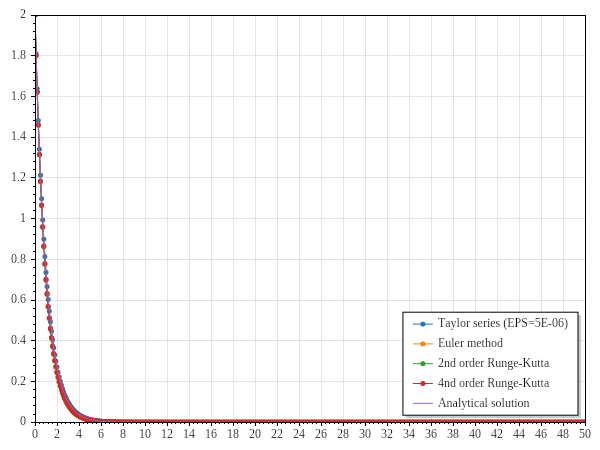
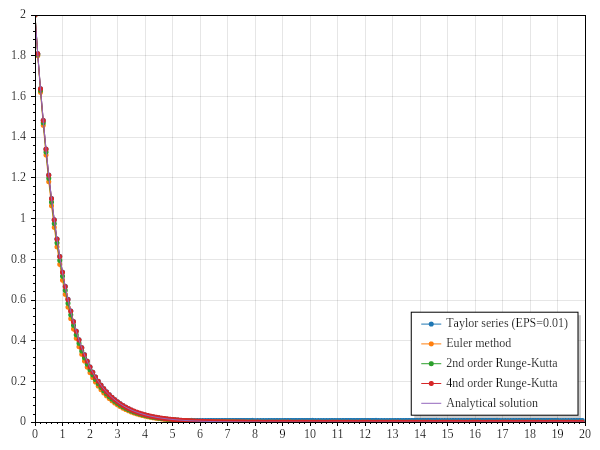
fixed RK calculations

Changed region(s): [[0.06, 0.0622, 0.96, 0.9956], [0.81, 0.0622, 0.84, 0.6844], [0.69, 0.0622, 0.72, 0.6844]]

diff --git a/Main.cs b/Main.cs
@@ -11,7 +11,7 @@ class Solver{
 
 		TaylorSeries.Taylor(Functs.X_prime, Consts.InitialConditions.X, result, out exec_time);
 
-		Console.WriteLine($"Taylor method execution time: {exec_time.TotalMilliseconds} ms");
+		Console.WriteLine($"Taylor method execution time: {exec_time.TotalMilliseconds} s");
 
 		plot.Add.Scatter(Enumerable.Range(0,result.Count+1).Select(i => i*Consts.IntegrationSteps.Taylor).ToArray(), result.ToArray()).LegendText = $"Taylor series (EPS={Consts.TaylorSeries.EPS})";
 
@@ -19,7 +19,7 @@ class Solver{
 
 		EulerMethod.Euler(Functs.X_prime, Consts.InitialConditions.X, result, out exec_time);
 
-		Console.WriteLine($"Euler method execution time: {exec_time.TotalMilliseconds} ms");
+		Console.WriteLine($"Euler method execution time: {exec_time.TotalMilliseconds} s");
 
 		plot.Add.Scatter(Enumerable.Range(0,result.Count+1).Select(i => i*Consts.IntegrationSteps.Euler).ToArray(), result.ToArray()).LegendText = "Euler method";
 		
@@ -27,7 +27,7 @@ class Solver{
 
 		RK.SecondOrd(Functs.X_prime, Consts.InitialConditions.X, result, out exec_time);
 		
-		Console.WriteLine($"2nd order Runge-Kutta method execution time: {exec_time.TotalMilliseconds} ms");
+		Console.WriteLine($"2nd order Runge-Kutta method execution time: {exec_time.TotalMilliseconds} s");
 
 		plot.Add.Scatter(Enumerable.Range(0, result.Count+1).Select(i => i*Consts.IntegrationSteps.RK).ToArray(), result.ToArray()).LegendText = "2nd order Runge-Kutta";
 
@@ -35,7 +35,7 @@ class Solver{
 
 		RK.FourthOrd(Functs.X_prime, Consts.InitialConditions.X, result, out exec_time);
 
-		Console.WriteLine($"4th order Runge-Kutta method execution time: {exec_time.TotalMilliseconds} ms");
+		Console.WriteLine($"4th order Runge-Kutta method execution time: {exec_time.TotalMilliseconds} s");
 	
 		plot.Add.Scatter(Enumerable.Range(0, result.Count+1).Select(i => i*Consts.IntegrationSteps.RK).ToArray(), result.ToArray()).LegendText = "4nd order Runge-Kutta";
 
@@ -59,7 +59,7 @@ class Solver{
 
 		EulerMethod.Euler(Functs.Y_prime, Functs.Z_prime, Consts.InitialConditions.Y, Consts.InitialConditions.Z, result, out exec_time);
 
-		Console.WriteLine($"Euler method execution time: {exec_time.TotalMilliseconds} ms");
+		Console.WriteLine($"Euler method execution time: {exec_time.TotalMilliseconds} s");
 
 		plot.Add.Scatter(Enumerable.Range(0, result.Count+1).Select(i => i*Consts.IntegrationSteps.Euler).ToArray(), result.Select(i => i.y).ToArray()).LegendText = "Euler method (y')";
 		plot.Add.Scatter(Enumerable.Range(0, result.Count+1).Select(i => i*Consts.IntegrationSteps.Euler).ToArray(), result.Select(i => i.z).ToArray()).LegendText = "Euler method (z')";
@@ -68,7 +68,7 @@ class Solver{
 
 		RK.SecondOrd(Functs.Y_prime, Functs.Z_prime, Consts.InitialConditions.Y, Consts.InitialConditions.Z, result, out exec_time);
 
-		Console.WriteLine($"2nd order Runge-Kutta method execution time: {exec_time.TotalMilliseconds} ms");
+		Console.WriteLine($"2nd order Runge-Kutta method execution time: {exec_time.TotalMilliseconds} s");
 
 		plot.Add.Scatter(Enumerable.Range(0, result.Count+1).Select(i => i*Consts.IntegrationSteps.RK).ToArray(), result.Select(i => i.y).ToArray()).LegendText = "2nd order Runge-Kutta (y')";
 		plot.Add.Scatter(Enumerable.Range(0, result.Count+1).Select(i => i*Consts.IntegrationSteps.RK).ToArray(), result.Select(i => i.z).ToArray()).LegendText = "2nd order Runge-Kutta (z')";
@@ -77,7 +77,7 @@ class Solver{
 	
 		RK.FourthOrd(Functs.Y_prime, Functs.Z_prime, Consts.InitialConditions.Y, Consts.InitialConditions.Z, result, out exec_time);
 
-		Console.WriteLine($"2nd order Runge-Kutta method execution time: {exec_time.TotalMilliseconds} ms");
+		Console.WriteLine($"2nd order Runge-Kutta method execution time: {exec_time.TotalMilliseconds} s");
 
 		plot.Add.Scatter(Enumerable.Range(0, result.Count+1).Select(i => i*Consts.IntegrationSteps.RK).ToArray(), result.Select(i => i.y).ToArray()).LegendText = "4th order Runge-Kutta (y')";
 		plot.Add.Scatter(Enumerable.Range(0, result.Count+1).Select(i => i*Consts.IntegrationSteps.RK).ToArray(), result.Select(i => i.z).ToArray()).LegendText = "4th order Runge-Kutta (z')";
@@ -86,7 +86,7 @@ class Solver{
 
 		TaylorSeries.Taylor(Functs.Y_prime, Functs.Z_prime, Consts.InitialConditions.Y, Consts.InitialConditions.Z, result, out exec_time);
 
-		Console.WriteLine($"Taylor series execution time: {exec_time.TotalMilliseconds} ms");
+		Console.WriteLine($"Taylor series execution time: {exec_time.TotalMilliseconds} s");
 		
 		plot.Add.Scatter(Enumerable.Range(0, result.Count+1).Select(i => i*Consts.IntegrationSteps.Taylor).ToArray(), result.Select(i => i.y).ToArray()).LegendText = $"Taylor series (y') (EPS={Consts.TaylorSeries.EPS})";
 		plot.Add.Scatter(Enumerable.Range(0, result.Count+1).Select(i => i*Consts.IntegrationSteps.Taylor).ToArray(), result.Select(i => i.z).ToArray()).LegendText = $"Taylor series (z') (EPS={Consts.TaylorSeries.EPS})";
@@ -105,7 +105,7 @@ class Solver{
 		f.MaxX = Consts.T_max;
 		f.LegendText = "Analytical solution (z')";
 
-		plot.Axes.SetLimits(0, Consts.T_max, -2, 2);
+		plot.Axes.SetLimits(0, Consts.T_max, -5, 5);
 		plot.SavePng("output/TwoEquations.png", 600, 450);
 
 		Console.WriteLine("Output graph: output/TwoEquations.png\n");
@@ -121,7 +121,7 @@ class Solver{
 
 		EulerMethod.Euler(DenseMatrix.OfArray(m), DenseMatrix.OfArray(initial), result, out exec_time);
 
-		Console.WriteLine($"Euler method execution time: {exec_time.TotalMilliseconds} ms");
+		Console.WriteLine($"Euler method execution time: {exec_time.TotalMilliseconds} s");
 
 		plot.Add.Scatter(Enumerable.Range(0, result.Count+1).Select(i => i*Consts.IntegrationSteps.Euler).ToArray(), result.Select(i => i[0,0]).ToArray()).LegendText = "Euler method (y')";
 		plot.Add.Scatter(Enumerable.Range(0, result.Count+1).Select(i => i*Consts.IntegrationSteps.Euler).ToArray(), result.Select(i => i[1,0]).ToArray()).LegendText = "Euler method (z')";
@@ -130,7 +130,7 @@ class Solver{
 
 		RK.SecondOrd(DenseMatrix.OfArray(m), DenseMatrix.OfArray(initial), result, out exec_time);
 
-		Console.WriteLine($"2nd order Runge-Kutta execution time: {exec_time.TotalMilliseconds} ms");
+		Console.WriteLine($"2nd order Runge-Kutta execution time: {exec_time.TotalMilliseconds} s");
 
 		plot.Add.Scatter(Enumerable.Range(0, result.Count+1).Select(i => i*Consts.IntegrationSteps.RK).ToArray(), result.Select(i => i[0,0]).ToArray()).LegendText = "2nd order Runge-Kutta (y')";
 		plot.Add.Scatter(Enumerable.Range(0, result.Count+1).Select(i => i*Consts.IntegrationSteps.RK).ToArray(), result.Select(i => i[1,0]).ToArray()).LegendText = "2nd order Runge-Kutta (z')";
@@ -139,7 +139,7 @@ class Solver{
 
 		RK.FourthOrd(DenseMatrix.OfArray(m), DenseMatrix.OfArray(initial), result, out exec_time);
 
-		Console.WriteLine($"4th order Runge-Kutta execution time: {exec_time.TotalMilliseconds} ms");
+		Console.WriteLine($"4th order Runge-Kutta execution time: {exec_time.TotalMilliseconds} s");
 
 		plot.Add.Scatter(Enumerable.Range(0, result.Count+1).Select(i => i*Consts.IntegrationSteps.RK).ToArray(), result.Select(i => i[0,0]).ToArray()).LegendText = "4th order Runge-Kutta (y')";
 		plot.Add.Scatter(Enumerable.Range(0, result.Count+1).Select(i => i*Consts.IntegrationSteps.RK).ToArray(), result.Select(i => i[1,0]).ToArray()).LegendText = "4th order Runge-Kutta (z')";
@@ -148,7 +148,7 @@ class Solver{
 		
 		TaylorSeries.Taylor(DenseMatrix.OfArray(m), DenseMatrix.OfArray(initial), result, out exec_time);
 
-		Console.WriteLine($"Taylor series execution time: {exec_time.TotalMilliseconds} ms");
+		Console.WriteLine($"Taylor series execution time: {exec_time.TotalMilliseconds} s");
 
 		plot.Add.Scatter(Enumerable.Range(0, result.Count+1).Select(i => i*Consts.IntegrationSteps.Taylor).ToArray(), result.Select(i => i[0,0]).ToArray()).LegendText = $"Taylor series (y') (EPS={Consts.TaylorSeries.EPS})";
 		plot.Add.Scatter(Enumerable.Range(0, result.Count+1).Select(i => i*Consts.IntegrationSteps.Taylor).ToArray(), result.Select(i => i[1,0]).ToArray()).LegendText = $"Taylor series (z') (EPS={Consts.TaylorSeries.EPS})";
@@ -166,7 +166,7 @@ class Solver{
 		f.MaxX = Consts.T_max;
 		f.LegendText = "Analytical solution (z')";
 
-		plot.Axes.SetLimits(0, Consts.T_max, -2, 2);
+		plot.Axes.SetLimits(0, Consts.T_max, -5, 5);
 		plot.SavePng("output/Matrix.png", 600, 450);
 
 		Console.WriteLine("Output graph: output/Matrix.png\n");

diff --git a/src/RK.cs b/src/RK.cs
@@ -3,51 +3,51 @@ namespace ODESolver;
 static class RK{
 	private static Stopwatch stopwatch = new();
 
-	private static (double, double) CalculateK2(Func<double,double> f, double y){
-		double k_1 = Consts.IntegrationSteps.RK*f(y);
-		double k_2 = Consts.IntegrationSteps.RK*f(y + Consts.IntegrationSteps.RK/2 * k_1);
+	private static (double, double) CalculateK2(Func<double,double,double> f, double t, double y){
+		double k_1 = f(t, y);
+		double k_2 = f(t + Consts.IntegrationSteps.RK/2, y + Consts.IntegrationSteps.RK/2 * k_1);
 		return (k_1, k_2);
 	}
 
-	private static (double,double,double,double) CalculateK2(Func<double,double> f_y, Func<double,double> f_z, double y, double z){
-		double k_1y = Consts.IntegrationSteps.RK*f_y(z);
-		double k_1z = Consts.IntegrationSteps.RK*f_z(y);
-		double k_2y = Consts.IntegrationSteps.RK*f_y(z + Consts.IntegrationSteps.RK/2 * k_1z);
-		double k_2z = Consts.IntegrationSteps.RK*f_z(y + Consts.IntegrationSteps.RK/2 * k_1y);
+	private static (double,double,double,double) CalculateK2(Func<double,double,double,double> f_y, Func<double,double,double,double> f_z, double t, double y, double z){
+		double k_1y = f_y(t, y, z);
+		double k_1z = f_z(t, y, z);
+		double k_2y = f_y(t + Consts.IntegrationSteps.RK/2 , y + Consts.IntegrationSteps.RK/2 * k_1y, z + Consts.IntegrationSteps.RK/2 * k_1z);
+		double k_2z = f_z(t + Consts.IntegrationSteps.RK/2 , y + Consts.IntegrationSteps.RK/2 * k_1y, z + Consts.IntegrationSteps.RK/2 * k_1z);
 		return (k_1y, k_1z, k_2y, k_2z);
 	}
 
 
 
 	private static (Matrix<double>, Matrix<double>) CalculateK2(Matrix<double> m, Matrix<double> initial){
-		Matrix<double> k_1 = Consts.IntegrationSteps.RK * m * initial;
-		Matrix<double> k_2 = Consts.IntegrationSteps.RK * m * (initial + Consts.IntegrationSteps.RK/2 * k_1);
+		Matrix<double> k_1 = m * initial;
+		Matrix<double> k_2 = m * (initial + Consts.IntegrationSteps.RK/2 * k_1);
 		return (k_1, k_2);
 	}
 
-	public static void SecondOrd(Func<double,double> f, double y, List<double> vals, out TimeSpan exec_time){
+	public static void SecondOrd(Func<double,double,double> f, double y, List<double> vals, out TimeSpan exec_time){
 		stopwatch.Reset();
 		stopwatch.Start();
 		double k_1,k_2;
 		for(double i = 0; i<=Consts.T_max; i+=Consts.IntegrationSteps.RK){
 			vals.Add(y);
-			(k_1, k_2) = CalculateK2(f, y);
-			y += (k_1 + k_2)/2;
+			(k_1, k_2) = CalculateK2(f, i, y);
+			y += (k_1 + k_2) * Consts.IntegrationSteps.RK/2;
 		}
 		stopwatch.Stop();
 		exec_time = stopwatch.Elapsed;
 		stopwatch.Reset();
 	}
 
-	public static void SecondOrd(Func<double,double> y_prime, Func<double,double> z_prime, double y, double z, List<(double,double)> vals, out TimeSpan exec_time){
+	public static void SecondOrd(Func<double,double,double,double> y_prime, Func<double,double,double,double> z_prime, double y, double z, List<(double,double)> vals, out TimeSpan exec_time){
 		stopwatch.Reset();
 		stopwatch.Start();
 		double k_1y, k_1z, k_2y, k_2z;
 		for(double i = 0; i<=Consts.T_max; i+=Consts.IntegrationSteps.RK){
 			vals.Add((y, z));
-			(k_1y, k_1z, k_2y, k_2z) = CalculateK2(y_prime, z_prime, y, z);
-			y += (k_1y + k_2y)/2;
-			z += (k_1z + k_2z)/2;
+			(k_1y, k_1z, k_2y, k_2z) = CalculateK2(y_prime, z_prime, i, y, z);
+			y += (k_1y + k_2y) * Consts.IntegrationSteps.RK/2;
+			z += (k_1z + k_2z) * Consts.IntegrationSteps.RK/2;
 		}
 		stopwatch.Stop();
 		exec_time = stopwatch.Elapsed;
@@ -61,42 +61,42 @@ static class RK{
 		for(double i = 0; i<=Consts.T_max; i+=Consts.IntegrationSteps.RK){
 			vals.Add(initial);
 			(k_1, k_2) = CalculateK2(m, initial);
-			initial += (k_1 + k_2)/2;
+			initial += (k_1 + k_2) * Consts.IntegrationSteps.RK/2;
 		}
 		stopwatch.Stop();
 		exec_time = stopwatch.Elapsed;
 		stopwatch.Reset();
 	}
 
-	public static void FourthOrd(Func<double,double> f, double y, List<double> vals, out TimeSpan exec_time){
+	public static void FourthOrd(Func<double,double,double> f, double y, List<double> vals, out TimeSpan exec_time){
 		stopwatch.Reset();
 		stopwatch.Start();
 		double k_1, k_2, k_3, k_4;
 		for(double i = 0; i<=Consts.T_max; i+=Consts.IntegrationSteps.RK){
 			vals.Add(y);
-			(k_1, k_2) = CalculateK2(f, y);
-			k_3 = Consts.IntegrationSteps.RK*f(y + Consts.IntegrationSteps.RK/2 * k_2);
-			k_4 = Consts.IntegrationSteps.RK*f(y + Consts.IntegrationSteps.RK*k_3);
-			y += (k_1 + 2*k_2 + 2*k_3 + k_4)/6;
+			(k_1, k_2) = CalculateK2(f, i, y);
+			k_3 = f(i + Consts.IntegrationSteps.RK/2, y + Consts.IntegrationSteps.RK/2 * k_2);
+			k_4 = f(i + Consts.IntegrationSteps.RK, y + Consts.IntegrationSteps.RK*k_3);
+			y += (k_1 + 2*k_2 + 2*k_3 + k_4) * Consts.IntegrationSteps.RK/6;
 		}
 		stopwatch.Stop();
 		exec_time = stopwatch.Elapsed;
 		stopwatch.Reset();
 	}
 
-	public static void FourthOrd(Func<double,double> y_prime, Func<double,double> z_prime, double y, double z, List<(double,double)> vals, out TimeSpan exec_time){
+	public static void FourthOrd(Func<double,double,double,double> y_prime, Func<double,double,double,double> z_prime, double y, double z, List<(double,double)> vals, out TimeSpan exec_time){
 		stopwatch.Reset();
 		stopwatch.Start();
 		double k_1y, k_1z, k_2y, k_2z, k_3y, k_3z, k_4y, k_4z;
 		for(double i = 0; i<=Consts.T_max; i+=Consts.IntegrationSteps.RK){
 			vals.Add((y,z));
-			(k_1y, k_1z, k_2y, k_2z) = CalculateK2(y_prime, z_prime, y, z);
-			k_3y = Consts.IntegrationSteps.RK * y_prime(z + Consts.IntegrationSteps.RK/2 * k_2z);
-			k_3z = Consts.IntegrationSteps.RK * z_prime(y + Consts.IntegrationSteps.RK/2 * k_2y);
-			k_4y = Consts.IntegrationSteps.RK * y_prime(z + Consts.IntegrationSteps.RK * k_3z);
-			k_4z = Consts.IntegrationSteps.RK * z_prime(y + Consts.IntegrationSteps.RK * k_3y);
-			y += (k_1y + 2*k_2y + 2*k_3y + k_4y)/6;
-			z += (k_1z + 2*k_2z + 2*k_3z + k_4z)/6;
+			(k_1y, k_1z, k_2y, k_2z) = CalculateK2(y_prime, z_prime, i, y, z);
+			k_3y = y_prime(i + Consts.IntegrationSteps.RK/2, y + Consts.IntegrationSteps.RK/2 * k_2y, z + Consts.IntegrationSteps.RK/2 * k_2z);
+			k_3z = z_prime(i + Consts.IntegrationSteps.RK/2, y + Consts.IntegrationSteps.RK/2 * k_2y, z + Consts.IntegrationSteps.RK/2 * k_2z);
+			k_4y = y_prime(i + Consts.IntegrationSteps.RK, y + Consts.IntegrationSteps.RK * k_3y, z + Consts.IntegrationSteps.RK * k_3z);
+			k_4z = z_prime(i + Consts.IntegrationSteps.RK, y + Consts.IntegrationSteps.RK * k_3y, z + Consts.IntegrationSteps.RK * k_3z);
+			y += (k_1y + 2*k_2y + 2*k_3y + k_4y) * Consts.IntegrationSteps.RK/6;
+			z += (k_1z + 2*k_2z + 2*k_3z + k_4z) * Consts.IntegrationSteps.RK/6;
 		}
 		stopwatch.Stop();
 		exec_time = stopwatch.Elapsed;
@@ -110,9 +110,9 @@ static class RK{
 		for(double i = 0; i<=Consts.T_max; i+=Consts.IntegrationSteps.RK){
 			vals.Add(initial);
 			(k_1, k_2) = CalculateK2(m, initial);
-			k_3 = Consts.IntegrationSteps.RK * m * (initial + Consts.IntegrationSteps.RK/2 * k_2);
-			k_4 = Consts.IntegrationSteps.RK * m * (initial + Consts.IntegrationSteps.RK * k_3);
-			initial += (k_1 + 2*k_2 + 2*k_3 + k_4)/6;
+			k_3 = m * (initial + Consts.IntegrationSteps.RK/2 * k_2);
+			k_4 = m * (initial + Consts.IntegrationSteps.RK * k_3);
+			initial += (k_1 + 2*k_2 + 2*k_3 + k_4) * Consts.IntegrationSteps.RK/6;
 		}
 		stopwatch.Stop();
 		exec_time = stopwatch.Elapsed;

diff --git a/src/Euler.cs b/src/Euler.cs
@@ -4,24 +4,24 @@ namespace ODESolver;
 static class EulerMethod{
 	private static Stopwatch stopwatch = new();
 	// function for calculating linear ODE f with a value of y at time 0 until time n with a time step of h
-	public static void Euler(Func<double,double> f, double y, List<double> vals, out TimeSpan exec_time){
+	public static void Euler(Func<double,double,double> f, double y, List<double> vals, out TimeSpan exec_time){
 		stopwatch.Start();
 		for(double i = 0; i<=Consts.T_max; i+=Consts.IntegrationSteps.Euler){
 			vals.Add(y);
-			y += Consts.IntegrationSteps.Euler * f(y);
+			y += Consts.IntegrationSteps.Euler * f(i, y);
 		}
 		stopwatch.Stop();
 		exec_time = stopwatch.Elapsed;
 		stopwatch.Reset();
 	}
-	public static void Euler(Func<double,double> y_prime, Func<double,double> z_prime, double y, double z, List<(double, double)> vals, out TimeSpan exec_time){
+	public static void Euler(Func<double,double,double,double> y_prime, Func<double,double,double,double> z_prime, double y, double z, List<(double, double)> vals, out TimeSpan exec_time){
 		stopwatch.Reset();
 		stopwatch.Start();
 		double new_y, new_z;
 		for(double i = 0; i<=Consts.T_max; i+=Consts.IntegrationSteps.Euler){
 			vals.Add((y,z));
-			new_y = y + Consts.IntegrationSteps.Euler * y_prime(z);
-			new_z = z + Consts.IntegrationSteps.Euler * z_prime(y);
+			new_y = y + Consts.IntegrationSteps.Euler * y_prime(i, y, z);
+			new_z = z + Consts.IntegrationSteps.Euler * z_prime(i, y, z);
 			(y, z) = (new_y, new_z);
 		}
 		stopwatch.Stop();

diff --git a/src/Taylor.cs b/src/Taylor.cs
@@ -32,25 +32,25 @@ static class TaylorSeries{
 		return new_terms;
 	}
 
-	public static void Taylor(Func<double,double> f, double y, List<double> vals, out TimeSpan exec_time){
+	public static void Taylor(Func<double,double,double> f, double y, List<double> vals, out TimeSpan exec_time){
 		stopwatch.Reset();
 		stopwatch.Start();
 		for(double i = 0; i<=Consts.T_max; i+=Consts.IntegrationSteps.Taylor){
 			vals.Add(y);
-			y += RecTaylor(Consts.IntegrationSteps.Taylor*f(y), 1, y);
+			y += RecTaylor(Consts.IntegrationSteps.Taylor*f(i, y), 1, y);
 		}
 		stopwatch.Stop();
 		exec_time = stopwatch.Elapsed;
 		stopwatch.Reset();
 	}
 
-	public static void Taylor(Func<double,double> y_prime, Func<double,double> z_prime, double y, double z, List<(double,double)> vals, out TimeSpan exec_time){
+	public static void Taylor(Func<double,double,double,double> y_prime, Func<double,double,double,double> z_prime, double y, double z, List<(double,double)> vals, out TimeSpan exec_time){
 		stopwatch.Reset();
 		stopwatch.Start();
 		double exp_y, exp_z;
 		for(double i = 0; i<=Consts.T_max; i+=Consts.IntegrationSteps.Taylor){
 			vals.Add((y,z));
-			(exp_y, exp_z) = RecTaylor(Consts.IntegrationSteps.Taylor*y_prime(z), Consts.IntegrationSteps.Taylor*z_prime(y), 1, y, z);
+			(exp_y, exp_z) = RecTaylor(Consts.IntegrationSteps.Taylor*y_prime(i, y, z), Consts.IntegrationSteps.Taylor*z_prime(i, y, z), 1, y, z);
 			y += exp_y;
 			z += exp_z;
 		}

diff --git a/input/Functs.cs b/input/Functs.cs
@@ -3,9 +3,9 @@ using System;
 namespace ODESolver;
 
 struct Functs{
-	public static double X_prime(double x) => Consts.Lambda*x;
-	public static double Y_prime(double z) => Consts.Omega*z;
-	public static double Z_prime(double y) => -Consts.Omega*y;
+	public static double X_prime(double t, double x) => Consts.Lambda*x;
+	public static double Y_prime(double t, double y, double z) => Consts.Omega*z;
+	public static double Z_prime(double t, double y, double z) => -Consts.Omega*y;
 	public struct Analytical{
 		public static double X(double t) => Consts.InitialConditions.X * Math.Pow(Math.E, Consts.Lambda*t);
 		public static double Y(double t) => Consts.InitialConditions.Z * Math.Sin(Consts.Omega*t);

diff --git a/input/Consts.cs b/input/Consts.cs
@@ -4,7 +4,7 @@ public struct Consts{
 	public struct InitialConditions{
 		public const double X = 2d;
 		public const double Y = 0d;
-		public const double Z = 0.5d;
+		public const double Z = 2d;
 	};
 	public struct IntegrationSteps{
 		public const double Euler = 0.1d;
@@ -12,10 +12,10 @@ public struct Consts{
 		public const double Taylor = 0.1d;
 	};
 	public const double Lambda = -1d;
-	public const double Omega = 1d;
-	public const double T_max = 50d;
+	public const double Omega = 1.5d;
+	public const double T_max = 20d;
 	public struct TaylorSeries{
 		public const uint MaxSteps = 50;
-		public const double EPS = 0.000005d; 
+		public const double EPS = 0.01d; 
 	};
 };
